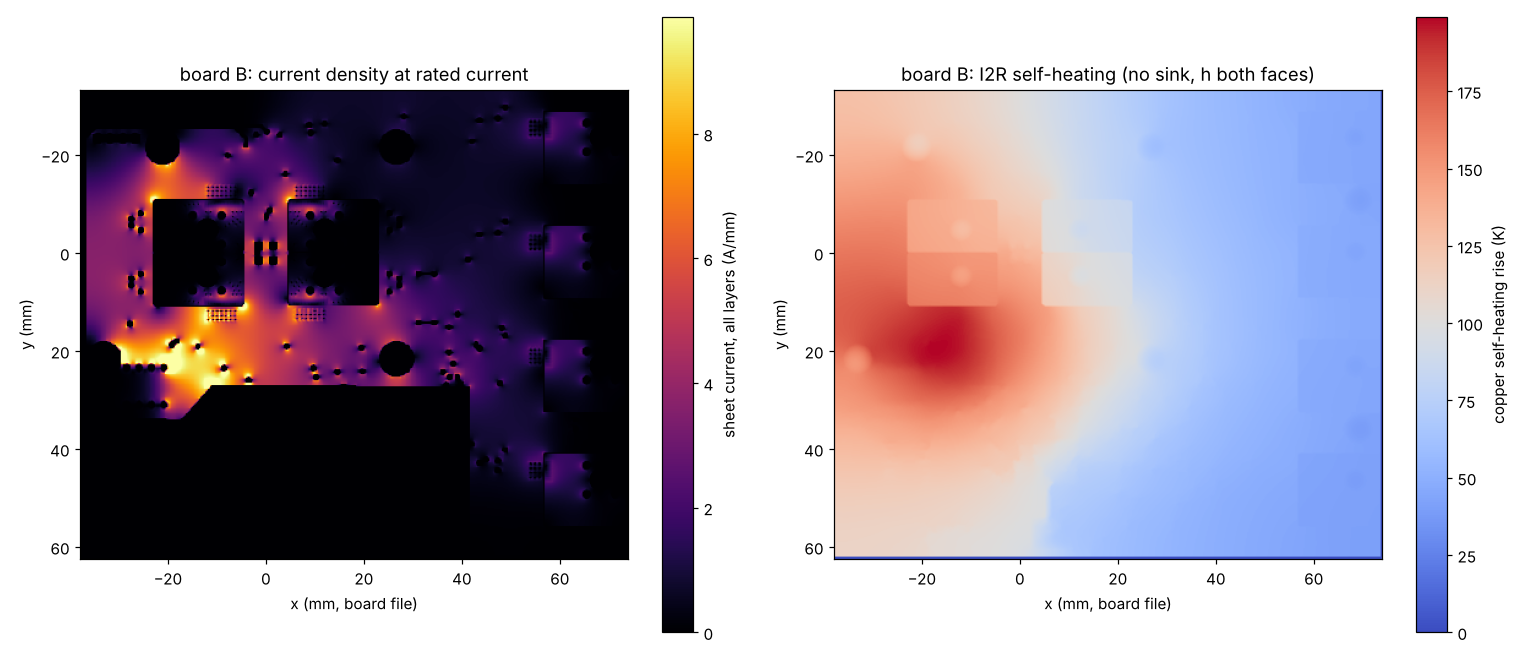
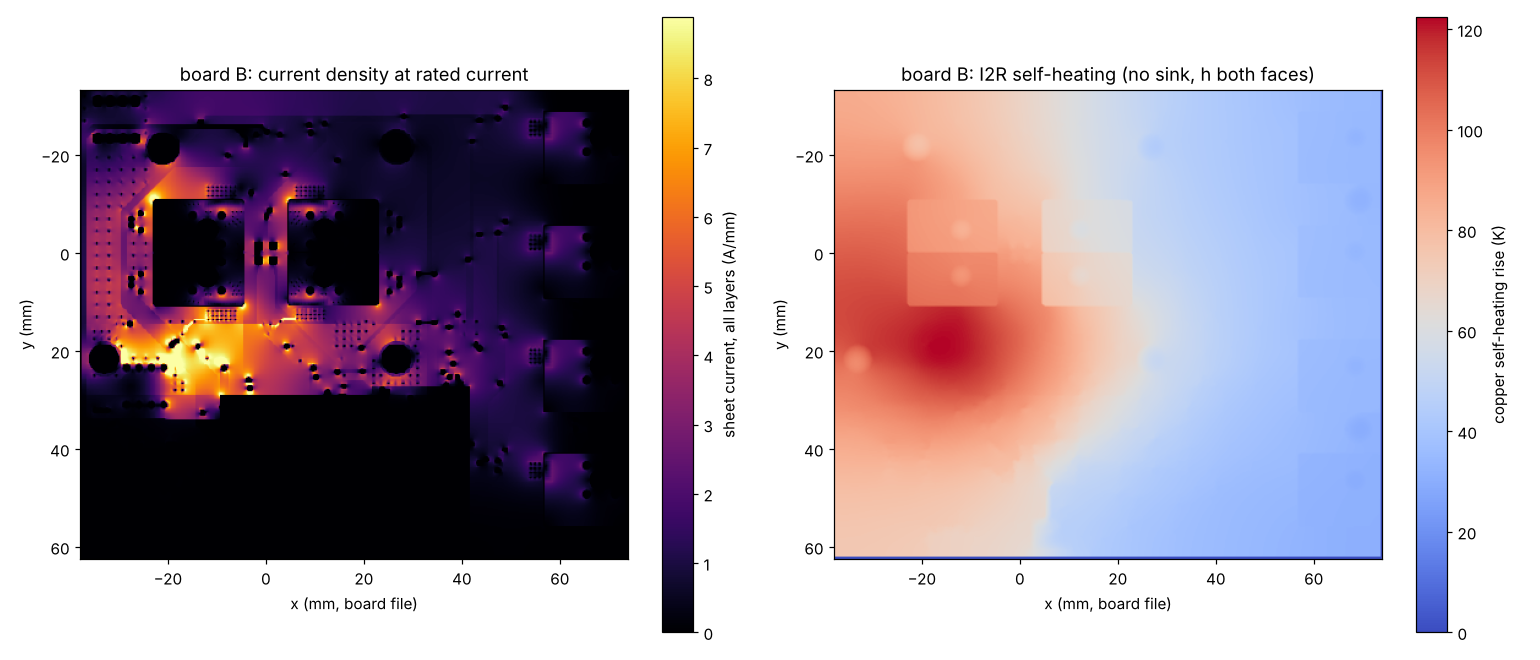
docs(hw): board B verify_copper after the feed fix (99.9 mV / 13.6 W at 184 A), plot refreshed
Claude-Session: https://claude.ai/code/session_014aA8s3x4bsQmrrj5Psgbbr

diff --git a/docs/pcb-verification.md b/docs/pcb-verification.md
@@ -71,7 +71,7 @@ Copper: the boards' stackup says 43.2 um outer / 17.3 um inner; the JLCPCB defau
 | Fusion ERC / DRC | Fusion MCP | not checkable (add-in not connected) | - | re-run when Fusion is up |
 | PF_OUT1-4, 31 A each | verify_copper | 2.1 mV, 65 mW each, 23 vias each, worst via 1.5 A. PASS | `verify_copper.py B` | none |
 | PF_OUT5-8, 15 A each | verify_copper | 4.8 mV, 72 mW each (F.Cu carries it: the inner / bottom pours of these nets have no vias at the driver, only the terminal holes join them). PASS | same | none |
-| +12V feed | verify_copper / thermal_board_b | was FAIL (B.Cu only: 184 A 143 mV / 19.9 W, 150 A 117 mV / 13.3 W; in the sink model 163-165 C at 150 A, limit 130 C). FIXED 2026-11-20 by `tools/pcb_feed_board_b.py` (In2 +12V pour over the board, In1 +12V band over the J1 corridor with GND channels for D14 / D16, B.Cu +12V edge moved into the +3V3 pour, 135 stitching vias; no part moved): 150 A 82 mV / 9.1 W, 184 A 100 mV / 13.6 W (20 C copper). Heat model, fans on, gap pad k 3: 150 A laminate max 122.7-124.3 C (3 splits), Tj max 110.5-121.0 C; car load (118 A, car-loads.dummy.md) 109.9 C / Tj 114.2 C. PASS at the 150 A feed limit. Every output at rating (184 A): 157.5 C FAIL (above the feed limit: firmware cap). Fans off (wall): 150 A 138.6-140.1 C FAIL, car load 120.7 C PASS | `thermal_board_b.py --res 0.3` (`--air nofan`) | firmware keeps the 150 A cap; fans-off full load needs the thermal limit (e3c) |
+| +12V feed | verify_copper / thermal_board_b | was FAIL (B.Cu only: 184 A 143 mV / 19.9 W, 150 A 117 mV / 13.3 W; in the sink model 163-165 C at 150 A, limit 130 C). FIXED 2026-11-20 by `tools/pcb_feed_board_b.py` (In2 +12V pour over the board, In1 +12V band over the J1 corridor with GND channels for D14 / D16, B.Cu +12V edge moved into the +3V3 pour, 135 stitching vias; no part moved): 150 A 82 mV / 9.1 W, 184 A 99.9 mV / 13.6 W (20 C copper; verify_copper's no-sink screen: hot spot 59 K over the board mean, was 106 K, screen 10 K: the sink model below is the judge); worst via 4.5 A (fin limit 22 A). Heat model, fans on, gap pad k 3: 150 A laminate max 122.7-124.3 C (3 splits), Tj max 110.5-121.0 C; car load (118 A, car-loads.dummy.md) 109.9 C / Tj 114.2 C. PASS at the 150 A feed limit. Every output at rating (184 A): 157.5 C FAIL (above the feed limit: firmware cap). Fans off (wall): 150 A 138.6-140.1 C FAIL, car load 120.7 C PASS; gap pad k 1 instead of the decided k >= 3 (b3a): 137.4 C FAIL | `thermal_board_b.py --res 0.3` (`--air nofan`) | firmware keeps the 150 A cap; fans-off full load needs the thermal limit (e3c) |
 | Vias | verify_copper | worst 4.9 A in a via under a BTS70012 pad (the EP via array carries 31 A); barrel self-heating 0.5 K (fin model); 28 over the long-trace chart. PASS | same | none |
 | Current sense -> ADC | verify_spice | TLV9004 + PDZ5.1B: BTS70012 reads to 97 A (5 % low; rating 31 A), BTS7004 to 57.5 A (15 A), -40..125 C, both zener corners; at rating 1.104 / 0.900 V, 1.371 / 1.575 V under the 2.475 V fault level (reached at 69.5 / 41.2 A); faults read 3.280 V (+0.805 V); kILIS fw 33700 / 20000 = typical (PR #112). PASS | `verify_spice.py` | none |
 | TVS D2 | verify_spice | as board A: load dump B FAIL, pulse 1 WARN; SM8S24CA passes but does not fit (same D2 spot as A) | same | Left 2 |
